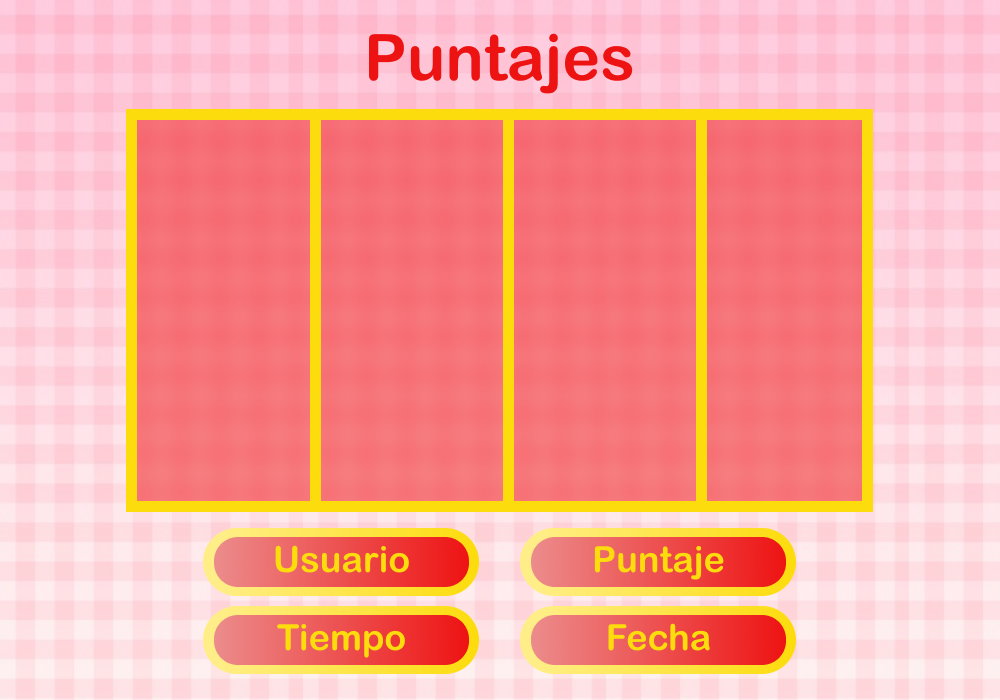
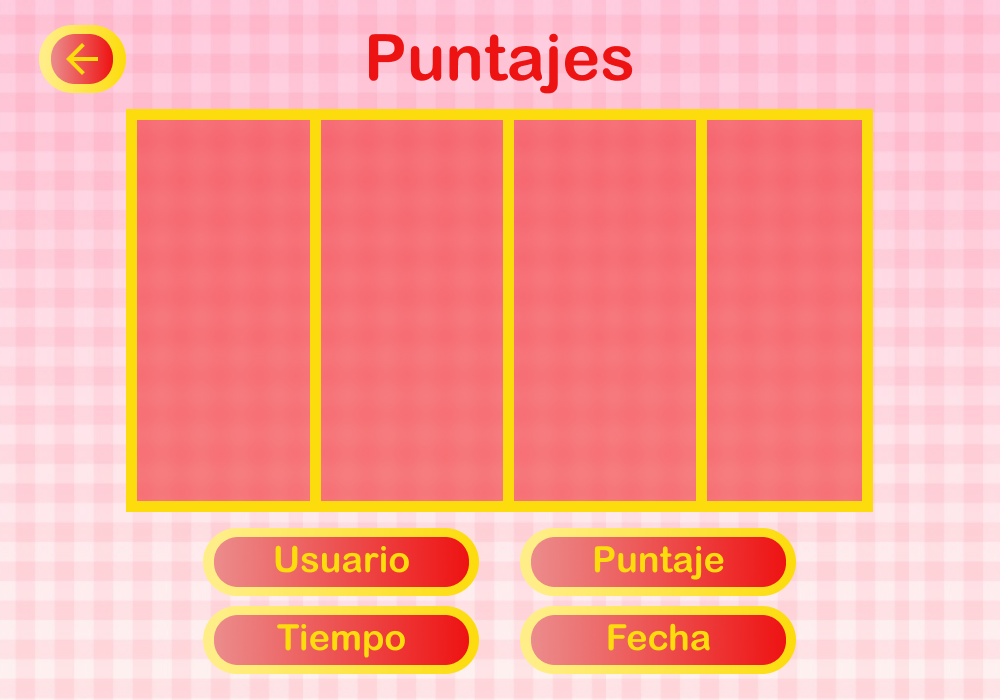
Zonas sensibles pantallas
Se implementa la conexión entre pantallas a través de zonas sensibles, y se corrigen algunos PNGs desalineados

Changed region(s): [[0.031, 0.03, 0.124, 0.15]]

diff --git a/src/view/Main.java b/src/view/Main.java
@@ -14,6 +14,15 @@ public class Main extends PApplet {
 	}
 	int screenNum;
 	ScreenSplash splash;
+	ScreenLog login;
+	ScreenReg register;
+	ScreenHome home;
+	ScreenGame map;
+	ScreenScore scores;
+	ScreenWin win;
+	ScreenGameOver lose;
+	
+	
 	
 	public void settings() {
 		size(1000,700);
@@ -22,8 +31,15 @@ public class Main extends PApplet {
 
 	public void setup() {
 		this.control = new Controller(this);
-		screenNum=1;
+		screenNum=8;
 		splash = new ScreenSplash(this);
+		login = new ScreenLog(this);
+		register = new ScreenReg(this);
+		home = new ScreenHome(this);
+		map = new ScreenGame(this);
+		scores = new ScreenScore(this);
+		win = new ScreenWin(this);
+		lose = new ScreenGameOver(this);
 	}
 
 	public void draw() {
@@ -34,6 +50,34 @@ public class Main extends PApplet {
 			//SPLASH SCREEN
 			splash.draw();
 			break;
+		case 2:
+		//LOGIN
+			login.draw();
+			break;
+		case 3:
+		//REGISTER
+			register.draw();
+			break;
+		case 4:
+			//HOME
+				home.draw();
+				break;
+		case 5:
+			//SCORES
+				scores.draw();
+				break;
+		case 6:
+			//GAME SCREEN
+			map.draw();
+				break;
+		case 7:
+			//WIN
+				win.draw();
+				break;
+		case 8:
+			//GAME OVER
+				lose.draw();
+				break;
 		}
 		
 
@@ -48,6 +92,88 @@ public class Main extends PApplet {
 	}
 	
 	public void mouseClicked() {
-		this.control.mouseClick();
+		switch(screenNum) {
+		case 1:
+			//DE SPLASH A LOGIN
+			screenNum=2;
+			break;
+		case 2:
+			//DE LOGIN A REGISTER
+			if((613>mouseX&&mouseX>387)&&(675>mouseY&&mouseY>654)) {
+				screenNum=3;
+			}
+			//DE LOGIN A HOME
+			if((637>mouseX&&mouseX>363)&&(582>mouseY&&mouseY>512)) {
+				screenNum=4;
+				}
+				break;
+		case 3:
+			//DE REGISTER A LOGIN
+			if((637>mouseX&&mouseX>363)&&(647>mouseY&&mouseY>583)) {
+				screenNum=2;
+				}
+				break;
+		case 4:
+			//DE HOME A SCORES
+			if((637>mouseX&&mouseX>363)&&(569>mouseY&&mouseY>503)) {
+				screenNum=5;
+			}
+			//DE HOME A GAME SCREEN
+			if((637>mouseX&&mouseX>363)&&(456>mouseY&&mouseY>389)) {
+				this.control.mouseClick();
+				screenNum=6;
+				}
+				break;
+		case 5:
+			//DE SCORES A HOME
+			if((125>mouseX&&mouseX>39)&&(92>mouseY&&mouseY>24)) {
+				screenNum=4;
+				}
+			//ORDENAMIENTO USUARIO
+			if((475>mouseX&&mouseX>201)&&(595>mouseY&&mouseY>530)) {
+				System.out.println("ordenamiento por usuario");
+				}
+			//ORDENAMIENTO TIEMPO
+			if((475>mouseX&&mouseX>201)&&(673>mouseY&&mouseY>606)) {
+				System.out.println("ordenamiento por tiempo");
+				}
+			//ORDENAMIENTO FECHA
+			if((796>mouseX&&mouseX>519)&&(673>mouseY&&mouseY>606)) {
+				System.out.println("ordenamiento por fecha");
+				}
+			//ORDENAMIENTO PUNTAJE
+			if((796>mouseX&&mouseX>519)&&(595>mouseY&&mouseY>530)) {
+				System.out.println("ordenamiento por puntaje");
+				}
+				break;
+		case 7:
+			//DE WIN A HOME
+			if((620>mouseX&&mouseX>350)&&(672>mouseY&&mouseY>602)) {
+				screenNum=4;
+				}
+				break;
+		case 8:
+			//DE LOSE A HOME
+			if((816>mouseX&&mouseX>539)&&(560>mouseY&&mouseY>493)) {
+				screenNum=4;
+				}
+			//DE LOSE A GAME SCREEN
+			if((457>mouseX&&mouseX>181)&&(560>mouseY&&mouseY>493)) {
+				this.control.mouseClick();
+				screenNum=6;
+				}
+				break;
+			
+			}
+		}
+
+	public void setScreenNum(int screenNum) {
+		this.screenNum = screenNum;
 	}
-}
+
+	public int getScreenNum() {
+		return screenNum;
+	}
+		
+	}
+

diff --git a/src/view/ScreenGame.java b/src/view/ScreenGame.java
@@ -1,12 +1,17 @@
 package view;
 
 import processing.core.PApplet;
+import processing.core.PConstants;
 
 public class ScreenGame extends Screen{
 
 	public ScreenGame(PApplet app) {
 		super(app);
+		image= app.loadImage("pngs/Pantallas/Background.png");
 		// TODO Auto-generated constructor stub
 	}
-
+	public void draw() {
+		app.imageMode(PConstants.CORNER);
+		app.image(image,0,0,9004,app.height);
+	}
 }

diff --git a/src/view/ScreenScore.java b/src/view/ScreenScore.java
@@ -7,7 +7,8 @@ public class ScreenScore extends Screen {
 	private int score;
 	
 	public ScreenScore(PApplet app) {
-		super(app);
+	super(app);
+	image= app.loadImage("pngs/Pantallas/Puntajes.png");
 	}
 
 	public void validateScore() {

diff --git a/README.md b/README.md
@@ -1,5 +1,10 @@
 # ArepasTale
 Juego de plataformas en donde la Arepa es la protagonista.
 
+Controles:<br>
+A - Mover hacia la izquierda<br>
+D - Mover hacia la derecha<br>
+W - Saltar<br>
+
 Link del Behance:
 https://www.behance.net/gallery/108303109/Arepas-Tale
